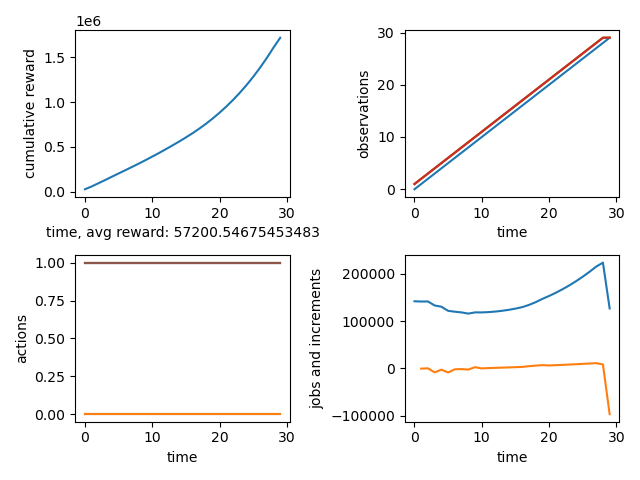
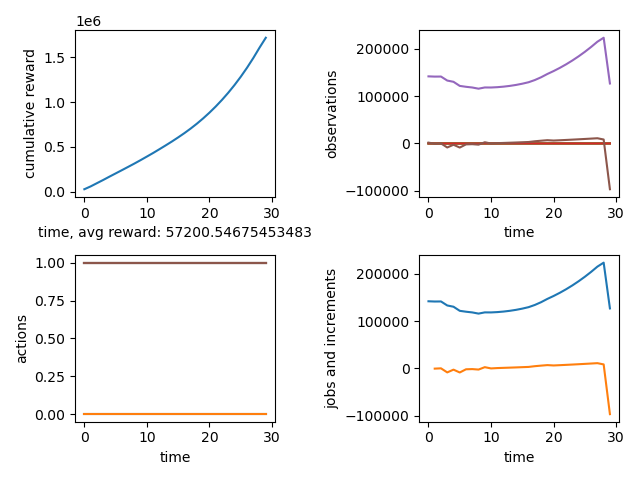
Augmented the observation space with jobs and increments in jobs, and set the lower and upper bounds. The observation now contains [step_count, IEV years for 3 scenarios, jobs, jobs increment], so in the new figures for 1-year normal pace, the observation subplot contains all these components. Re-di

diff --git a/environment/test_reference_environment.py b/environment/test_reference_environment.py
@@ -30,9 +30,9 @@ done = False
 # when all actions are fixed 1 year normal pace, and the actual change of capex are manually set to 200 from 2021 and 300 from
 # 2031 in env.py (these changes of capex are applied to the IEV model spreadsheets to obtain the changed jobs and economic
 # impact and calculate the approximated derivative w.r.t. capex):
-action = [0, 0, 1, 1, 1, 1] # Fixed 1 year normal pace: Breeze: [1, 0, 0, 1, 1, 1], Gale: [0, 1, 0, 1, 1, 1], Storm: [0, 0, 1, 1, 1, 1]
+# action = [0, 0, 1, 1, 1, 1] # Fixed 1 year normal pace: Breeze: [1, 0, 0, 1, 1, 1], Gale: [0, 1, 0, 1, 1, 1], Storm: [0, 0, 1, 1, 1, 1]
 # To test whether the action of 1 year shifting at the beginning/1st step will give the correct results saved in the xlsx files:
-# action = [0, 1, 0, 2, 2, 2]
+action = [0, 1, 0, 2, 2, 2]
 while not done:
     # Specify the action. Check the effect of any fixed policy by specifying the action here:
     observation, reward, done, _ = env.step(action)
@@ -43,49 +43,55 @@ while not done:
     logger.debug(f"reward: {reward}")
     logger.debug(f"done: {done}")
     print()
-    action = [0, 0, 1, 1, 1, 1] # env.action_space.sample()
+    action = [0, 1, 0, 1, 1, 1] # env.action_space.sample()
 
 logger.debug(f"env.param.IEV_RewardSensitivities: {env.param.IEV_RewardSensitivities}")
 
-# rewards_all = np.array(rewards_all)
-# IEV_Rewards_1YearShifting = np.ones(np.shape(rewards_all))
+rewards_all = np.array(env.state.weightedRewardComponents_all)
+IEV_Rewards_1YearShifting = np.ones(np.shape(rewards_all))
 # IEV_Rewards_capexDelta = np.ones(np.shape(rewards_all))
-# scenario = 1 # 0 for Breeze, 1 for Gale, 2 for Storm; should be adjusted according to the 'action' above in line 33/35 and 46
+scenario = 1 # 0 for Breeze, 1 for Gale, 2 for Storm; should be adjusted according to the 'action' above in line 33/35 and 46
 # IEV_Rewards_1YearShifting[:,0] = np.array(np.array(pd.read_excel('./sensitivities/Pathways to Net Zero - 1-Year Shifting - Total capex.xlsx'))[scenario,4:],dtype=np.float64)
 # IEV_Rewards_1YearShifting[:,1] = np.array(np.array(pd.read_excel('./sensitivities/Pathways to Net Zero - 1-Year Shifting - Total opex.xlsx'))[scenario,4:],dtype=np.float64)
 # IEV_Rewards_1YearShifting[:,2] = np.array(np.array(pd.read_excel('./sensitivities/Pathways to Net Zero - 1-Year Shifting - Total revenue.xlsx'))[scenario,4:],dtype=np.float64)
 # IEV_Rewards_1YearShifting[:,3] = np.array(np.array(pd.read_excel('./sensitivities/Pathways to Net Zero - 1-Year Shifting - Carbon tax for uncaptured carbon.xlsx'))[scenario,4:],dtype=np.float64)
 # IEV_Rewards_1YearShifting[:,4] = np.array(np.array(pd.read_excel('./sensitivities/IEV - 1-Year Shifting - Total Jobs.xlsx'))[scenario,2:],dtype=np.float64)
 # IEV_Rewards_1YearShifting[:,5] = np.array(np.array(pd.read_excel('./sensitivities/IEV - 1-Year Shifting - Total Economic Impact.xlsx'))[scenario,4:],dtype=np.float64)
+IEV_Rewards_1YearShifting[:,0] = np.array(np.array(pd.read_excel('./sensitivities/Pathways to Net Zero - Exact 1-Year Shifting No Double-Deployment - Total capex.xlsx'))[scenario,4:],dtype=np.float64)
+IEV_Rewards_1YearShifting[:,1] = np.array(np.array(pd.read_excel('./sensitivities/Pathways to Net Zero - Exact 1-Year Shifting No Double-Deployment - Total opex.xlsx'))[scenario,4:],dtype=np.float64)
+IEV_Rewards_1YearShifting[:,2] = np.array(np.array(pd.read_excel('./sensitivities/Pathways to Net Zero - Exact 1-Year Shifting No Double-Deployment - Total revenue.xlsx'))[scenario,4:],dtype=np.float64)
+IEV_Rewards_1YearShifting[:,3] = np.array(np.array(pd.read_excel('./sensitivities/Pathways to Net Zero - Exact 1-Year Shifting No Double-Deployment - Carbon tax for uncaptured carbon.xlsx'))[scenario,4:],dtype=np.float64)
+IEV_Rewards_1YearShifting[:,4] = np.array(np.array(pd.read_excel('./sensitivities/IEV - Exact 1-Year Shifting No Double-Deployment - Total Jobs.xlsx'))[scenario,2:],dtype=np.float64)
+IEV_Rewards_1YearShifting[:,5] = np.array(np.array(pd.read_excel('./sensitivities/IEV - Exact 1-Year Shifting No Double-Deployment - Total Economic Impact.xlsx'))[scenario,4:],dtype=np.float64)
 # IEV_Rewards_capexDelta[:,4] = np.array(np.array(pd.read_excel('./sensitivities/IEV - capex+Delta100 - Total Jobs.xlsx'))[scenario,2:],dtype=np.float64)
 # IEV_Rewards_capexDelta[:,5] = np.array(np.array(pd.read_excel('./sensitivities/IEV - capex+Delta100 - Total Economic Impact.xlsx'))[scenario,4:],dtype=np.float64)
 
 
-# # up to now, the rewards output by env.py are correct up to year 2048, so the 
-# # calculation for the last 2 elements for year 2049 and 2050 needs to be double checked:
-# # (Ref: https://stackoverflow.com/questions/19141432/python-numpy-machine-epsilon)
-# # (!Update!: after modifying the env.py for derivative w.r.t. capex: 
-# # when the first action = [0, 1, 0, 2, 2, 2] is accelerating for 1 year so that 2021 is a double-deployment,
-# # the following line should be used to check the first 4 rewards: capex, opex, revenue, emissions only,
-# # because now the jobs & economic impact are now calculated by derivatives approximation + sensitivity ratio,
-# # but not just the sensitivity ratio as before; however, for capex calculation itself in the updated version of env.py, 
-# # the sensitivityYear loop is changed from 
-# # for sensitivityYear in np.arange(state.step_count, IEV_year): 
-# # to 
-# # for sensitivityYear in np.arange(state.IEV_years[scenario], IEV_year):
-# # i.e., the sensitivity ratio will be applied to state.IEV_years[scenario] but no longer back to state.step_count,
-# # the new capex for the actual year state.step_count won't be correct, but the capex change on year state.IEV_years[scenario]
-# # is still correct for multiplying by the derivative to calculate the approximated change of jobs & economic impact.
-# # Therefore, the following line will only check if opex, revenue, emissions are correct)
-# # (!Update 2!: after adding codes in env.py to map the state.IEV_years' new capex (with year-shifting + accumulation) back to 
-# # the state.step_count using the product of sensitivities, the capex should be correct as well, and also the jobs and economic
-# # impact should be correct as well, because all following years after 2021 are fixed 1-year normal pace actions, so except for
-# # the 1st step, all other steps' capex's change at the state.IEV_years are 0, so jobs and economic impact at the state.IEV_years
-# # should have no change due to size sensitivity/derivative w.r.t. capex, and then multiplying by the 1-year shifting sensitivity
-# # ratio to map jobs & economic impact back to state.step_count, they should be the same as the saved xlsx files storing the
-# # 1-year shifted jobs & economic impact for all steps/years after 2021, which are checked by the following updated line)
-# assert np.amax(np.abs(rewards_all[1:-2,:] - IEV_Rewards_1YearShifting[1:-2,:])) < np.finfo(np.float32).eps # env.py uses float32 in calculation, so numpy.float32's epsilon should be used for checking
-# print(rewards_all[0:-2,:] - IEV_Rewards_1YearShifting[0:-2,:])
+# up to now, the rewards output by env.py are correct up to year 2048, so the 
+# calculation for the last 2 elements for year 2049 and 2050 needs to be double checked:
+# (Ref: https://stackoverflow.com/questions/19141432/python-numpy-machine-epsilon)
+# (!Update!: after modifying the env.py for derivative w.r.t. capex: 
+# when the first action = [0, 1, 0, 2, 2, 2] is accelerating for 1 year so that 2021 is a double-deployment,
+# the following line should be used to check the first 4 rewards: capex, opex, revenue, emissions only,
+# because now the jobs & economic impact are now calculated by derivatives approximation + sensitivity ratio,
+# but not just the sensitivity ratio as before; however, for capex calculation itself in the updated version of env.py, 
+# the sensitivityYear loop is changed from 
+# for sensitivityYear in np.arange(state.step_count, IEV_year): 
+# to 
+# for sensitivityYear in np.arange(state.IEV_years[scenario], IEV_year):
+# i.e., the sensitivity ratio will be applied to state.IEV_years[scenario] but no longer back to state.step_count,
+# the new capex for the actual year state.step_count won't be correct, but the capex change on year state.IEV_years[scenario]
+# is still correct for multiplying by the derivative to calculate the approximated change of jobs & economic impact.
+# Therefore, the following line will only check if opex, revenue, emissions are correct)
+# (!Update 2!: after adding codes in env.py to map the state.IEV_years' new capex (with year-shifting + accumulation) back to 
+# the state.step_count using the product of sensitivities, the capex should be correct as well, and also the jobs and economic
+# impact should be correct as well, because all following years after 2021 are fixed 1-year normal pace actions, so except for
+# the 1st step, all other steps' capex's change at the state.IEV_years are 0, so jobs and economic impact at the state.IEV_years
+# should have no change due to size sensitivity/derivative w.r.t. capex, and then multiplying by the 1-year shifting sensitivity
+# ratio to map jobs & economic impact back to state.step_count, they should be the same as the saved xlsx files storing the
+# 1-year shifted jobs & economic impact for all steps/years after 2021, which are checked by the following updated line)
+assert np.amax(np.abs(rewards_all[1:-2,:] - IEV_Rewards_1YearShifting[1:-2,:])) < np.finfo(np.float32).eps # env.py uses float32 in calculation, so numpy.float32's epsilon should be used for checking
+print(rewards_all[0:-2,:] - IEV_Rewards_1YearShifting[0:-2,:])
 
 # # for jobs & economic impact derivatives w.r.t. capex, using fixed 1-year normal pace actions, the jobs & economic impact from
 # # env.py should be the same as the xlsx files from year 2021 to 2030, when total capex change is manually set to 200 in env.py

diff --git a/environment/reference_environment/env.py b/environment/reference_environment/env.py
@@ -27,12 +27,18 @@ class Parameters:
     IEV_Rewards[:,:,3] = np.array(np.array(pd.read_excel('./sensitivities/Pathways to Net Zero - Original - Carbon tax for uncaptured carbon.xlsx'))[:,4:],dtype=np.float64)
     IEV_Rewards[:,:,4] = np.array(np.array(pd.read_excel('./sensitivities/IEV - Original - Total Jobs.xlsx'))[:,2:],dtype=np.float64) # for jobs only, [:,2:] corresponds to 2021 -> 2050, 30 values/steps in total
     IEV_Rewards[:,:,5] = np.array(np.array(pd.read_excel('./sensitivities/IEV - Original - Total Economic Impact.xlsx'))[:,4:],dtype=np.float64)
-    IEV_RewardSensitivities[:,0:-1,0] = np.genfromtxt('./sensitivities/Pathways to Net Zero - Total capex Sensitivity Ratio for 1-Year Shifting.csv',delimiter=',') # 0:-1 corresponds to 2021 -> 2049
-    IEV_RewardSensitivities[:,0:-1,1] = np.genfromtxt('./sensitivities/Pathways to Net Zero - Total opex Sensitivity Ratio for 1-Year Shifting.csv',delimiter=',')
-    IEV_RewardSensitivities[:,0:-1,2] = np.genfromtxt('./sensitivities/Pathways to Net Zero - Total revenue Sensitivity Ratio for 1-Year Shifting.csv',delimiter=',')
-    IEV_RewardSensitivities[:,0:-1,3] = np.genfromtxt('./sensitivities/Pathways to Net Zero - Total emissions (uncaptured carbon tax) Sensitivity Ratio for 1-Year Shifting.csv',delimiter=',')
-    IEV_RewardSensitivities[:,0:-1,4] = np.genfromtxt('./sensitivities/IEV - Total Jobs Sensitivity Ratio for 1-Year Shifting.csv',delimiter=',') # including direct and indirect, but without induced; may read the "IEV - Total Jobs Including Induced Sensitivity Ratio for 1-Year Shifting.csv" to load the sensitivity for induced jobs included.
-    IEV_RewardSensitivities[:,0:-1,5] = np.genfromtxt('./sensitivities/IEV - Total Economic Impact Sensitivity Ratio for 1-Year Shifting.csv',delimiter=',')
+    # IEV_RewardSensitivities[:,0:-1,0] = np.genfromtxt('./sensitivities/Pathways to Net Zero - Total capex Sensitivity Ratio for 1-Year Shifting.csv',delimiter=',') # 0:-1 corresponds to 2021 -> 2049
+    # IEV_RewardSensitivities[:,0:-1,1] = np.genfromtxt('./sensitivities/Pathways to Net Zero - Total opex Sensitivity Ratio for 1-Year Shifting.csv',delimiter=',')
+    # IEV_RewardSensitivities[:,0:-1,2] = np.genfromtxt('./sensitivities/Pathways to Net Zero - Total revenue Sensitivity Ratio for 1-Year Shifting.csv',delimiter=',')
+    # IEV_RewardSensitivities[:,0:-1,3] = np.genfromtxt('./sensitivities/Pathways to Net Zero - Total emissions (uncaptured carbon tax) Sensitivity Ratio for 1-Year Shifting.csv',delimiter=',')
+    # IEV_RewardSensitivities[:,0:-1,4] = np.genfromtxt('./sensitivities/IEV - Total Jobs Sensitivity Ratio for 1-Year Shifting.csv',delimiter=',') # including direct and indirect, but without induced; may read the "IEV - Total Jobs Including Induced Sensitivity Ratio for 1-Year Shifting.csv" to load the sensitivity for induced jobs included.
+    # IEV_RewardSensitivities[:,0:-1,5] = np.genfromtxt('./sensitivities/IEV - Total Economic Impact Sensitivity Ratio for 1-Year Shifting.csv',delimiter=',')
+    IEV_RewardSensitivities[:,0:-1,0] = np.genfromtxt('./sensitivities/Pathways to Net Zero - Total capex Sensitivity Ratio for Exact 1-Year Shifting No Wave+Tidal.csv',delimiter=',') # 0:-1 corresponds to 2021 -> 2049
+    IEV_RewardSensitivities[:,0:-1,1] = np.genfromtxt('./sensitivities/Pathways to Net Zero - Total opex Sensitivity Ratio for Exact 1-Year Shifting No Wave+Tidal.csv',delimiter=',')
+    IEV_RewardSensitivities[:,0:-1,2] = np.genfromtxt('./sensitivities/Pathways to Net Zero - Total revenue Sensitivity Ratio for Exact 1-Year Shifting No Wave+Tidal.csv',delimiter=',')
+    IEV_RewardSensitivities[:,0:-1,3] = np.genfromtxt('./sensitivities/Pathways to Net Zero - Total emissions (uncaptured carbon tax) Sensitivity Ratio for Exact 1-Year Shifting No Wave+Tidal.csv',delimiter=',')
+    IEV_RewardSensitivities[:,0:-1,4] = np.genfromtxt('./sensitivities/IEV - Total Jobs Sensitivity Ratio for Exact 1-Year Shifting No Wave+Tidal.csv',delimiter=',') # including direct and indirect, but without induced; may read the "IEV - Total Jobs Including Induced Sensitivity Ratio for 1-Year Shifting.csv" to load the sensitivity for induced jobs included.
+    IEV_RewardSensitivities[:,0:-1,5] = np.genfromtxt('./sensitivities/IEV - Total Economic Impact Sensitivity Ratio for Exact 1-Year Shifting No Wave+Tidal.csv',delimiter=',')
     IEV_RewardDerivatives[:,:,4] = np.genfromtxt('./sensitivities/IEV - Total Jobs Derivative for capex+Delta100.csv',delimiter=',')
     IEV_RewardDerivatives[:,:,5] = np.genfromtxt('./sensitivities/IEV - Total Economic Impact Derivative for capex+Delta100.csv',delimiter=',')
 
@@ -62,6 +68,8 @@ class State:
         # NOTE: our convention is to update step_count at the beginning of the gym step() function
         self.step_count = -1
         self.IEV_years = np.zeros(param.scenarios, dtype=int) # for each scenario, records the latest IEV year that has been implemented
+        self.jobs = np.float32(139964) # initial jobs of year 2020, extracted from the IEV model spreadsheet
+        self.jobs_increment = np.zeros(1, dtype=np.float32) # initialized as 0
         
         # histories
         self.observations_all = []
@@ -72,7 +80,7 @@ class State:
     def to_observation(self):
         observation = (
             self.step_count,
-        ) + tuple (self.IEV_years)
+        ) + tuple (self.IEV_years) + (self.jobs,) + (self.jobs_increment,)
         
         return observation
 
@@ -98,8 +106,11 @@ def record(state, action, reward, weightedRewardComponents):
 def observation_space(self):
     obs_low = np.full_like(self.state.to_observation(), 0, dtype=np.float32)
     obs_low[0] = -1	# first entry of obervation is the timestep
+    obs_low[-1] = -37500 # last entry of obervation is the increment in jobs; Constraint 2: no decrease in jobs in excess of 37,500 per two years
     obs_high = np.full_like(self.state.to_observation(), 1000, dtype=np.float32) 
     obs_high[0] = param.steps_per_episode	# first entry of obervation is the timestep
+    obs_high[-2] = 10 * 139964 # 2nd last entry of obervation is the jobs; 10 times initial jobs in 2020 = 10*139964, large enough
+    obs_high[-1] = 139964 # last entry of obervation is the increment in jobs; jobs should can't be doubled in a year or increased by the number of total jobs in 2020
     result = spaces.Box(obs_low, obs_high, dtype=np.float32)
     return result
 
@@ -171,8 +182,10 @@ def apply_action(action, state):
             rewardComponents[scenario, rewardType] = IEV_YearRate
     weightedRewardComponents = np.matmul(scenarioWeights, rewardComponents) # weight the reward components by the scenario weights
     state.IEV_years = np.clip(state.IEV_years + scenarioYears, 0, param.steps_per_episode - 1) # record the latest IEV year implemented (to be implemented as the 1st year in the next step)
+    state.jobs_increment = weightedRewardComponents[-2] - state.jobs
+    state.jobs = weightedRewardComponents[-2]
     # reward = np.sum(weightedRewardComponents) # sum up the weighted reward components
-    # reward = weightedRewardComponents # 
+    # reward = weightedRewardComponents # for testing/checking all components separately, using test_reference_environment.py
     reward = weightedRewardComponents[-1] - weightedRewardComponents[-3] # proposed reward formula: Reward = Total economic impact - emissions
     return state, reward, weightedRewardComponents
 
@@ -214,7 +227,8 @@ def plot_episode(state, fname):
 
     # generator levels
     plt.subplot(222)
-    plt.plot(np.array(state.observations_all))
+    plt.plot(np.array(state.observations_all)[:,:4]) # first 4 elements of observations are step counts and 3 IEV years
+    # plt.plot(np.array(state.observations_all)[:,-2:]) # last 2 elements of observations are jobs and increments in jobs
     plt.xlabel("time")
     plt.ylabel("observations")
     plt.tight_layout()
